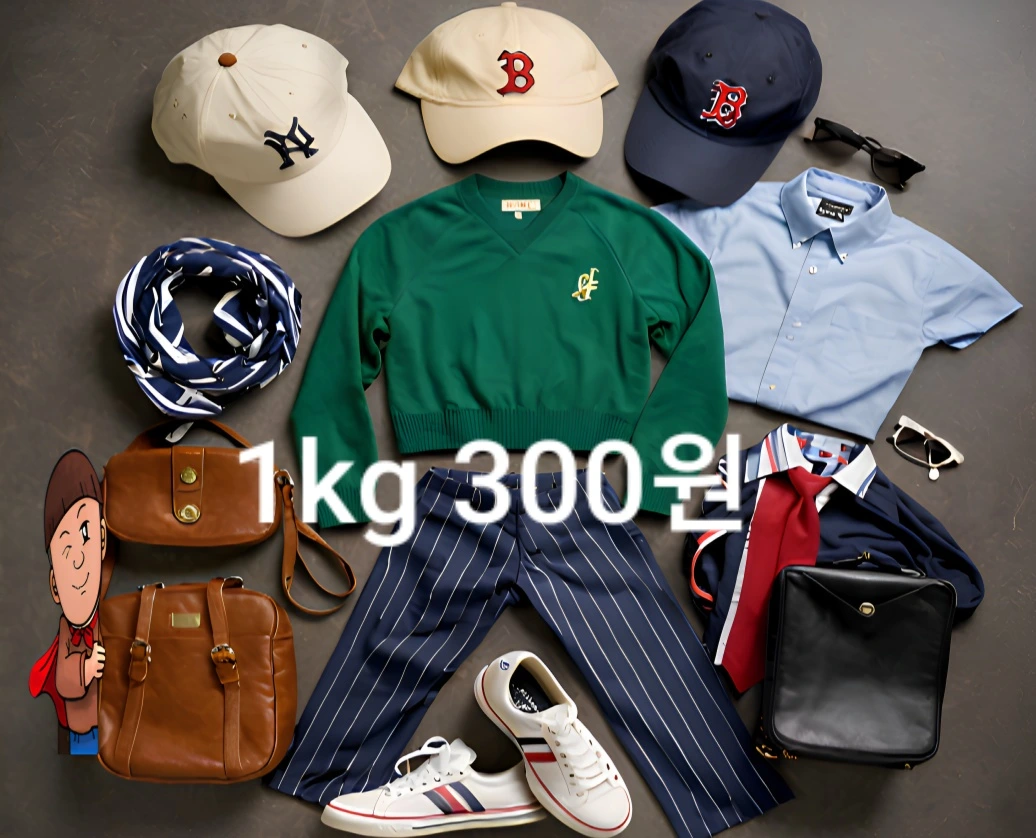
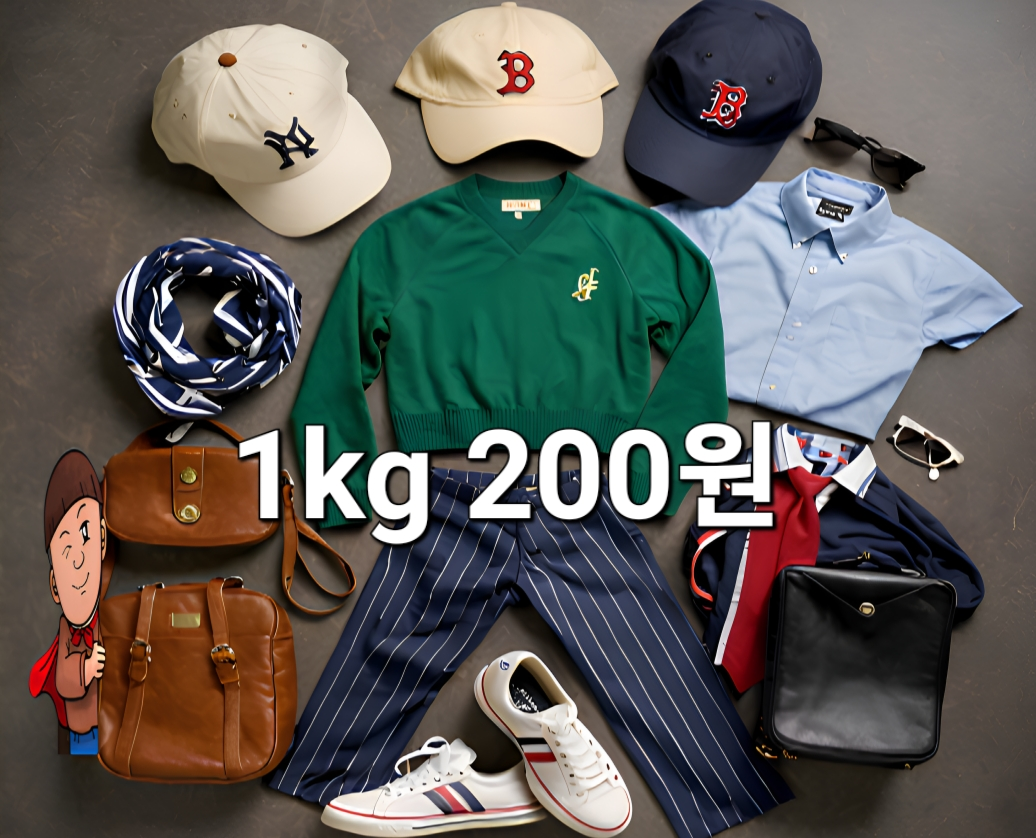
s

Changed region(s): [[0.2162, 0.4964, 0.7722, 0.6516]]

diff --git a/index.html b/index.html
@@ -203,7 +203,7 @@
                     <div class="card-content">
                         <h3>헌옷 방문수거</h3>
                         <p>(헌옷,운동화,구두,가방,모자 등)</p>
-                        <p>1kg 300원 25kg부터 방문수거</p>
+                        <p>1kg 200원 25kg부터 방문수거</p>
                     </div>
                 </div>
                 
@@ -322,14 +322,14 @@
             </div>
             
             <div class="services-container">
-                <!-- 수거 가능 목록 -->
+                <!-- 임시 숨김: 수거 가능 목록
                 <div class="services-section">
                     <h3 class="section-title available">✅ 수거 가능 목록</h3>
                     
                     <div class="service-list">
                         <div class="service-item">
                             <i class="fas fa-tshirt"></i>
-                            <span>헌옷 (1kg당 300원, 25kg 이상 방문)</span>
+                            <span>헌옷 (1kg당 200원, 25kg 이상 방문)</span>
                         </div>
                         <div class="service-item">
                             <i class="fas fa-mobile-alt"></i>
@@ -353,6 +353,7 @@
                         </div>
                     </div>
                 </div>
+                -->
                 
                 <!-- 수거 불가능 목록 -->
                 <div class="services-section">
